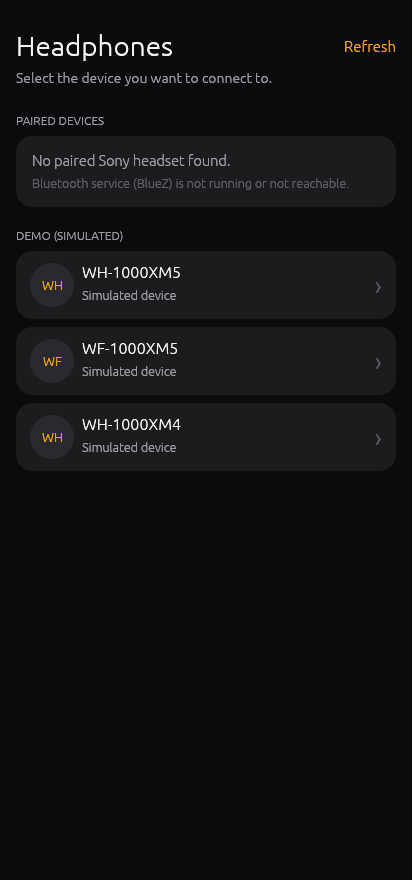
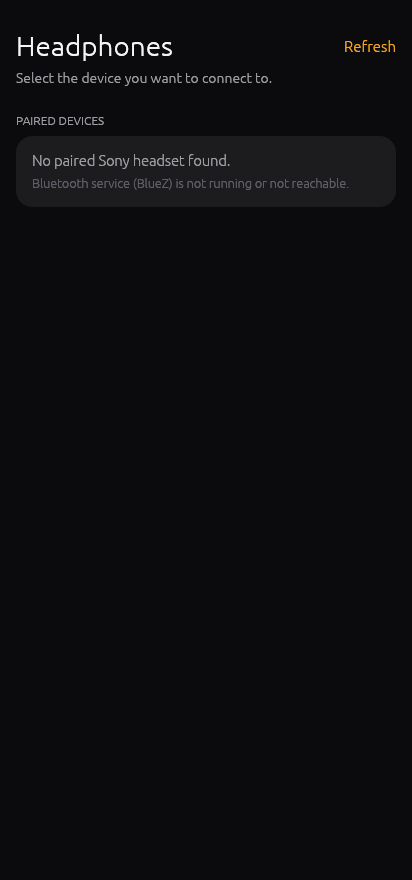
Hide simulated demo devices unless started with --demo
The device list now shows only real paired headsets. '--demo' lists the
simulated devices as well; '--demo <MODEL>' still connects to one
directly. The simulator stays in the code base for the tests.

Claude-Session: https://claude.ai/code/session_01BhKucYvsZYp5CUPW7XNkdP

Changed region(s): [[0.0583, 0.2455, 0.4369, 0.5216]]

diff --git a/src/ui/app.rs b/src/ui/app.rs
@@ -37,12 +37,15 @@ pub struct App {
     scanning: Option<Receiver<(Vec<DeviceInfo>, Option<String>)>>,
     toast: Option<(String, Instant)>,
     start_tab: Tab,
+    show_demo: bool,
 }
 
 /// Command-line options.
 #[derive(Default)]
 pub struct LaunchOptions {
-    /// Connect straight to a simulated device of this model.
+    /// Show the simulated demo devices in the device list (`--demo`).
+    pub show_demo: bool,
+    /// Connect straight to a simulated device of this model (`--demo <MODEL>`).
     pub demo: Option<String>,
     pub tab: Tab,
 }
@@ -88,6 +91,7 @@ impl App {
             scanning: None,
             toast: None,
             start_tab: opts.tab,
+            show_demo: opts.show_demo || opts.demo.is_some(),
         };
         app.rescan(&cc.egui_ctx);
         if let Some(model) = opts.demo {
@@ -104,8 +108,9 @@ impl App {
     fn rescan(&mut self, ctx: &egui::Context) {
         let (tx, rx) = mpsc::channel();
         let ctx = ctx.clone();
+        let include_demo = self.show_demo;
         std::thread::spawn(move || {
-            let _ = tx.send(transport::list_devices());
+            let _ = tx.send(transport::list_devices(include_demo));
             ctx.request_repaint();
         });
         self.scanning = Some(rx);
@@ -334,8 +339,10 @@ fn devices_screen(
                 action = Action::Connect(d.clone());
             }
         }
-        ui.add_space(8.0);
-        section_label(ui, "Demo (simulated)");
+        if !demo.is_empty() {
+            ui.add_space(8.0);
+            section_label(ui, "Demo (simulated)");
+        }
         for d in demo {
             if device_row(ui, d) {
                 action = Action::Connect(d.clone());

diff --git a/src/main.rs b/src/main.rs
@@ -8,18 +8,25 @@ mod ui;
 use ui::app::{LaunchOptions, Tab};
 
 const USAGE: &str = "\
-Usage: sony-audio-control [--demo <MODEL>] [--tab status|sound|system]
+Usage: sony-audio-control [--demo [MODEL]] [--tab status|sound|system]
 
-  --demo <MODEL>   Connect to a built-in simulated device (e.g. WH-1000XM5, WF-1000XM5)
+  --demo           Also list the built-in simulated devices (for development)
+  --demo <MODEL>   Connect straight to a simulated device
+                   (WH-1000XM6, WH-1000XM5, WF-1000XM5 or WH-1000XM4)
   --tab <TAB>      Tab to open after connecting
 ";
 
 fn parse_args() -> Result<LaunchOptions, String> {
     let mut opts = LaunchOptions::default();
-    let mut args = std::env::args().skip(1);
+    let mut args = std::env::args().skip(1).peekable();
     while let Some(arg) = args.next() {
         match arg.as_str() {
-            "--demo" => opts.demo = Some(args.next().ok_or("--demo needs a model name")?),
+            "--demo" => {
+                opts.show_demo = true;
+                if let Some(model) = args.next_if(|a| !a.starts_with("--")) {
+                    opts.demo = Some(model);
+                }
+            }
             "--tab" => {
                 opts.tab = match args.next().as_deref() {
                     Some("status") => Tab::Status,

diff --git a/src/transport/mod.rs b/src/transport/mod.rs
@@ -50,9 +50,9 @@ impl DeviceInfo {
     }
 }
 
-/// Devices currently available: simulated demo devices plus paired
-/// Bluetooth headsets (when Bluetooth support is compiled in).
-pub fn list_devices() -> (Vec<DeviceInfo>, Option<String>) {
+/// Devices currently available: paired Bluetooth headsets (when Bluetooth
+/// support is compiled in), plus the simulated demo devices if `include_demo`.
+pub fn list_devices(include_demo: bool) -> (Vec<DeviceInfo>, Option<String>) {
     let mut devices = Vec::new();
     #[cfg(all(feature = "bluetooth", target_os = "linux"))]
     let error = match bluetooth::list_paired() {
@@ -71,7 +71,9 @@ pub fn list_devices() -> (Vec<DeviceInfo>, Option<String>) {
     };
     #[cfg(not(all(feature = "bluetooth", target_os = "linux")))]
     let error = Some("This build has no Bluetooth support (demo devices only).".to_string());
-    devices.extend(simulator::demo_devices());
+    if include_demo {
+        devices.extend(simulator::demo_devices());
+    }
     (devices, error)
 }
 

diff --git a/README.md b/README.md
@@ -45,8 +45,10 @@ Both protocol generations are supported and detected automatically from the head
 Settings a model doesn't have (for example the touch sensor toggle on V2, or wind noise reduction on
 the WH-1000XM5) are hidden.
 
-Four **simulated devices** are built in: WH-1000XM6 (V2 with Listening Mode), WH-1000XM5 (V2),
-WF-1000XM5 (V2 earbuds) and WH-1000XM4 (V1 with Surround). They speak the real wire protocol, so you can try every control without hardware.
+For development, four **simulated devices** are built in: WH-1000XM6 (V2 with Listening Mode),
+WH-1000XM5 (V2), WF-1000XM5 (V2 earbuds) and WH-1000XM4 (V1 with Surround). They speak the real wire
+protocol, so every control can be tried without hardware. They are hidden unless the app is started
+with `--demo`.
 
 ## Building and running
 
@@ -56,10 +58,16 @@ Install Rust from <https://rustup.rs>, then:
 cargo run --release
 ```
 
-Open a simulated device directly:
+For development, list the simulated devices too:
 
 ```bash
-cargo run --release -- --demo WH-1000XM5 --tab sound
+cargo run --release -- --demo
+```
+
+Or open one directly:
+
+```bash
+cargo run --release -- --demo WH-1000XM6 --tab sound
 ```
 
 ### Linux (real headsets)
@@ -131,7 +139,7 @@ If a setting doesn't apply, open an issue with this output and your headset mode
 
 ### Windows / macOS
 
-The app builds and runs with the simulated devices. Real Bluetooth is only implemented for Linux so
+The app builds and runs, but only with the simulated devices (`--demo`). Real Bluetooth is only implemented for Linux so
 far: add a `Transport` implementation in `src/transport/` to support another platform.
 
 To build without Bluetooth support (no D-Bus needed):
